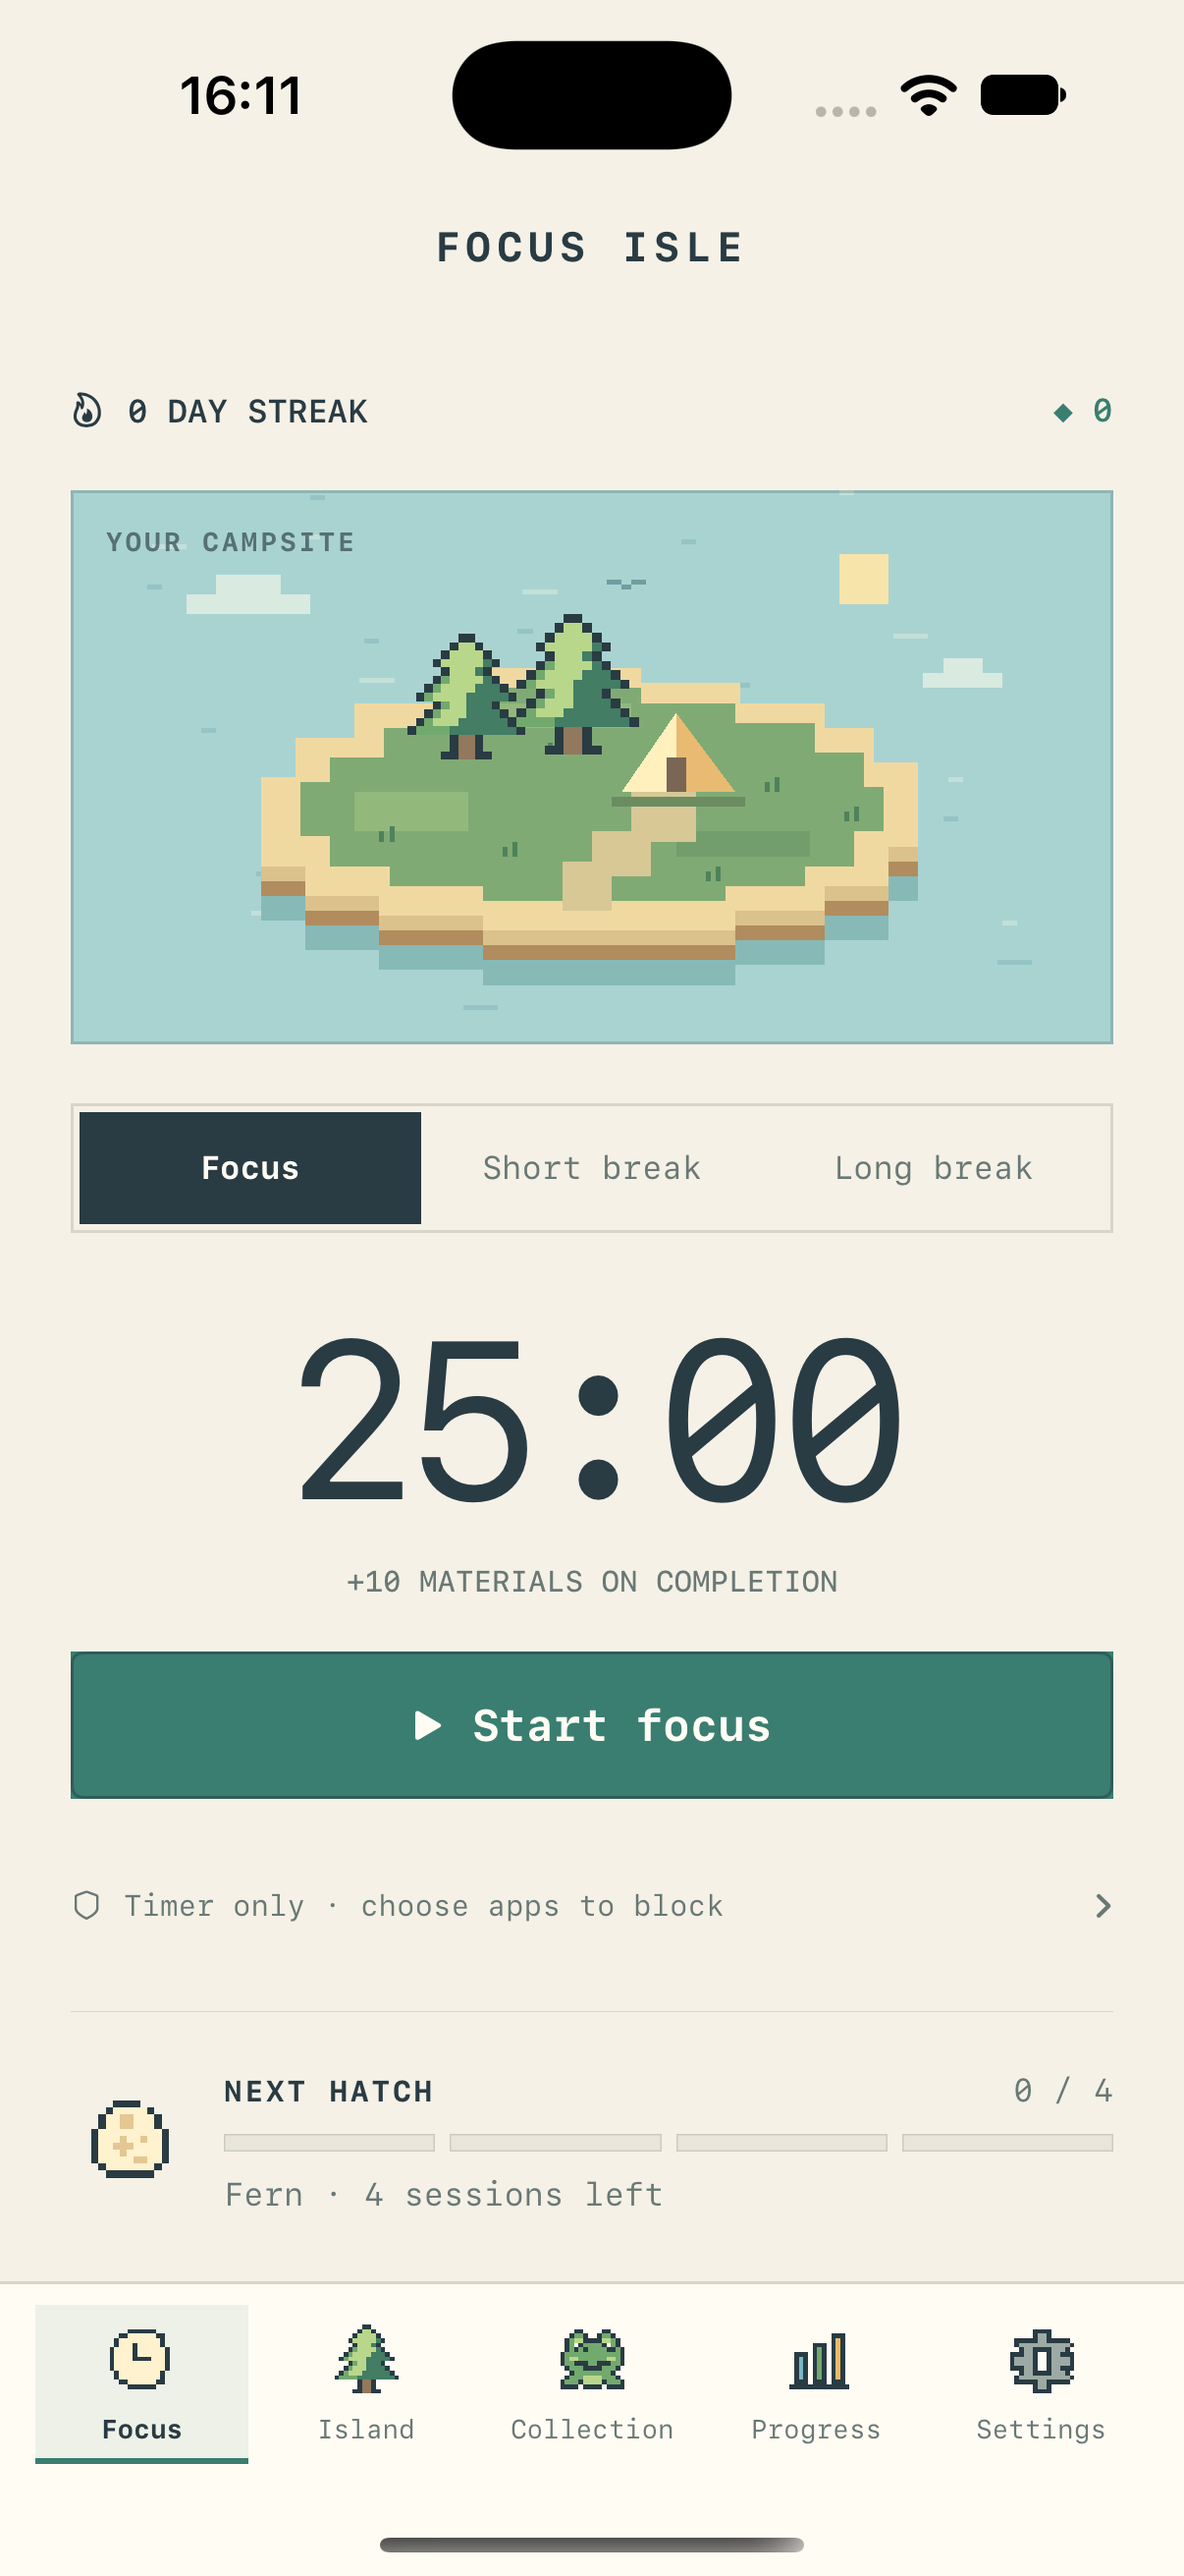
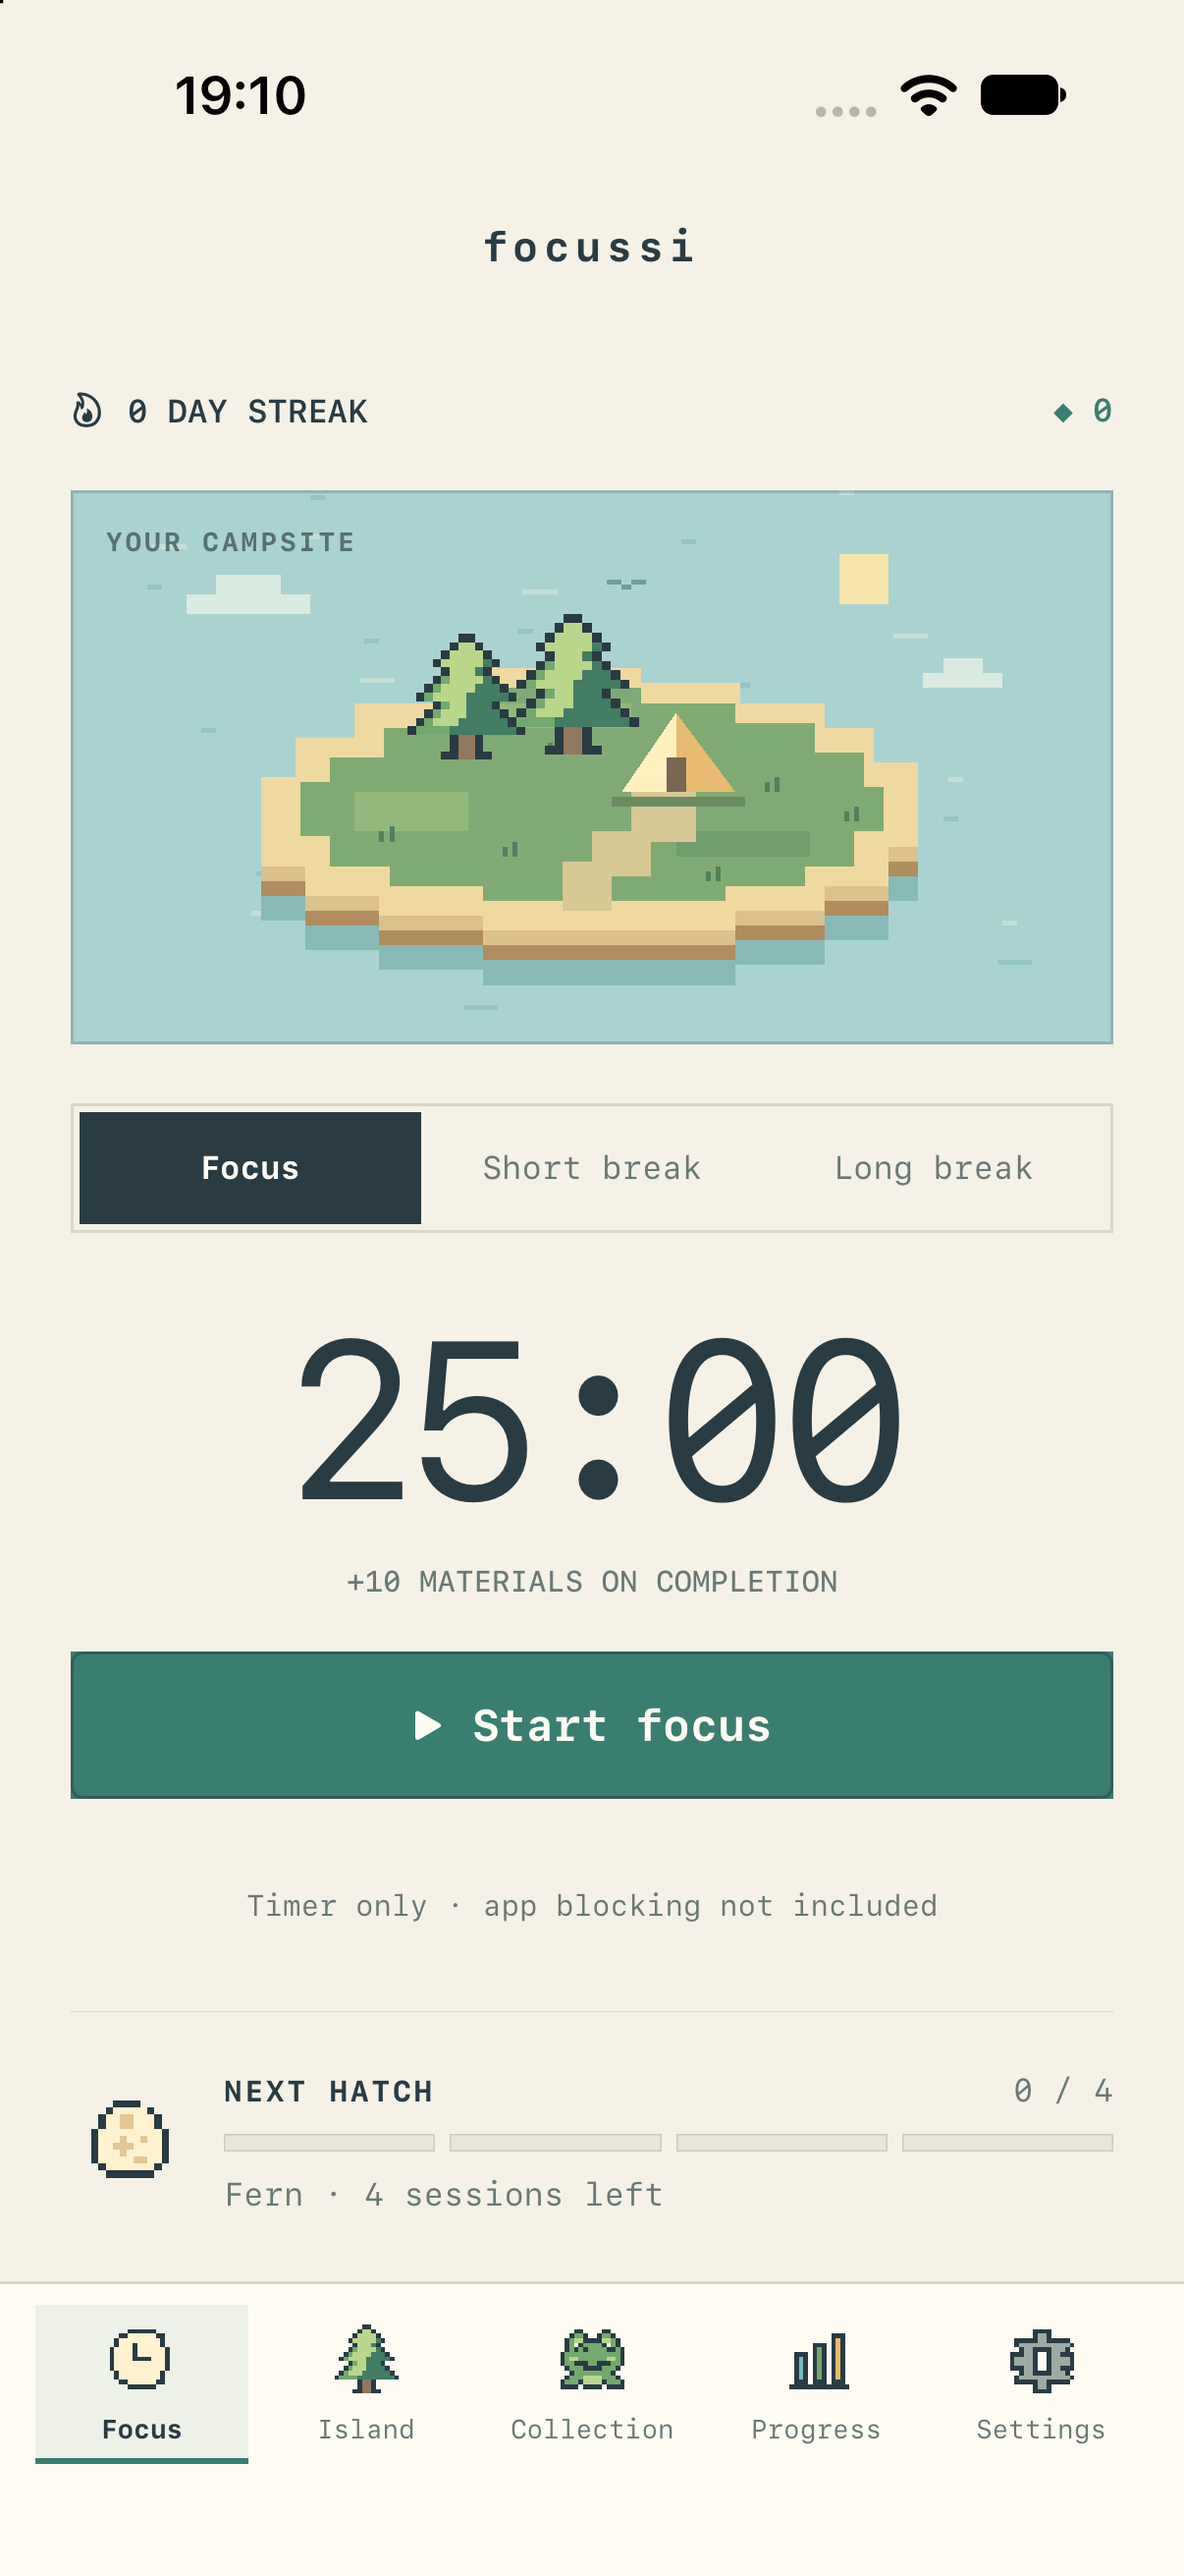
Rename project to focussi and remove outdated screenshots

diff --git a/Package.swift b/Package.swift
@@ -2,7 +2,7 @@
 import PackageDescription
 
 let package = Package(
-    name: "FocusIsle",
+    name: "focussi",
     platforms: [.macOS(.v13), .iOS(.v17)],
     products: [
         .library(name: "FocusCore", targets: ["FocusCore"]),

diff --git a/focussi/focussiApp.swift b/focussi/focussiApp.swift
@@ -1,7 +1,7 @@
 import SwiftUI
 
 @main
-struct FocusIsleApp: App {
+struct FocussiApp: App {
     @StateObject private var model = AppModel()
     var body: some Scene {
         WindowGroup {

diff --git a/scripts/verify-project.py b/scripts/verify-project.py
@@ -1,7 +1,7 @@
 from pathlib import Path
 import json,plistlib,xml.etree.ElementTree as ET
 root=Path.cwd()
-project=plistlib.loads(__import__('subprocess').check_output(['plutil','-convert','xml1','-o','-',str(root/'FocusIsle.xcodeproj/project.pbxproj')]))
+project=plistlib.loads(__import__('subprocess').check_output(['plutil','-convert','xml1','-o','-',str(root/'focussi.xcodeproj/project.pbxproj')]))
 objects=project['objects']
 for obj in objects.values():
     if obj.get('isa')=='PBXFileReference' and obj.get('sourceTree')=='SOURCE_ROOT':
@@ -10,10 +10,10 @@ for obj in objects.values():
         for ref in obj.get(key,[]): assert ref in objects,(key,ref)
     for key in ['fileRef','productRef','buildConfigurationList','mainGroup','productRefGroup','productReference','package','target','targetProxy','containerPortal']:
         if key in obj: assert obj[key] in objects,(key,obj[key])
-for p in root.glob('FocusIsle.xcodeproj/xcshareddata/xcschemes/*.xcscheme'): ET.parse(p)
-for p in root.glob('FocusIsle/Assets.xcassets/**/*.json'): json.loads(p.read_text())
+for p in root.glob('focussi.xcodeproj/xcshareddata/xcschemes/*.xcscheme'): ET.parse(p)
+for p in root.glob('focussi/Assets.xcassets/**/*.json'): json.loads(p.read_text())
 appgroup=None
-for p in [root/'FocusIsle/FocusIsle.entitlements',root/'FocusIsleMonitor/FocusIsleMonitor.entitlements']:
+for p in [root/'focussi/focussi.entitlements',root/'focussiMonitor/focussiMonitor.entitlements']:
     data=plistlib.loads(p.read_bytes()); assert data['com.apple.developer.family-controls']
     group=data['com.apple.security.application-groups']; assert appgroup is None or group==appgroup;appgroup=group
 assert appgroup[0] in (root/'Shared/ScreenTimeConfiguration.swift').read_text()
